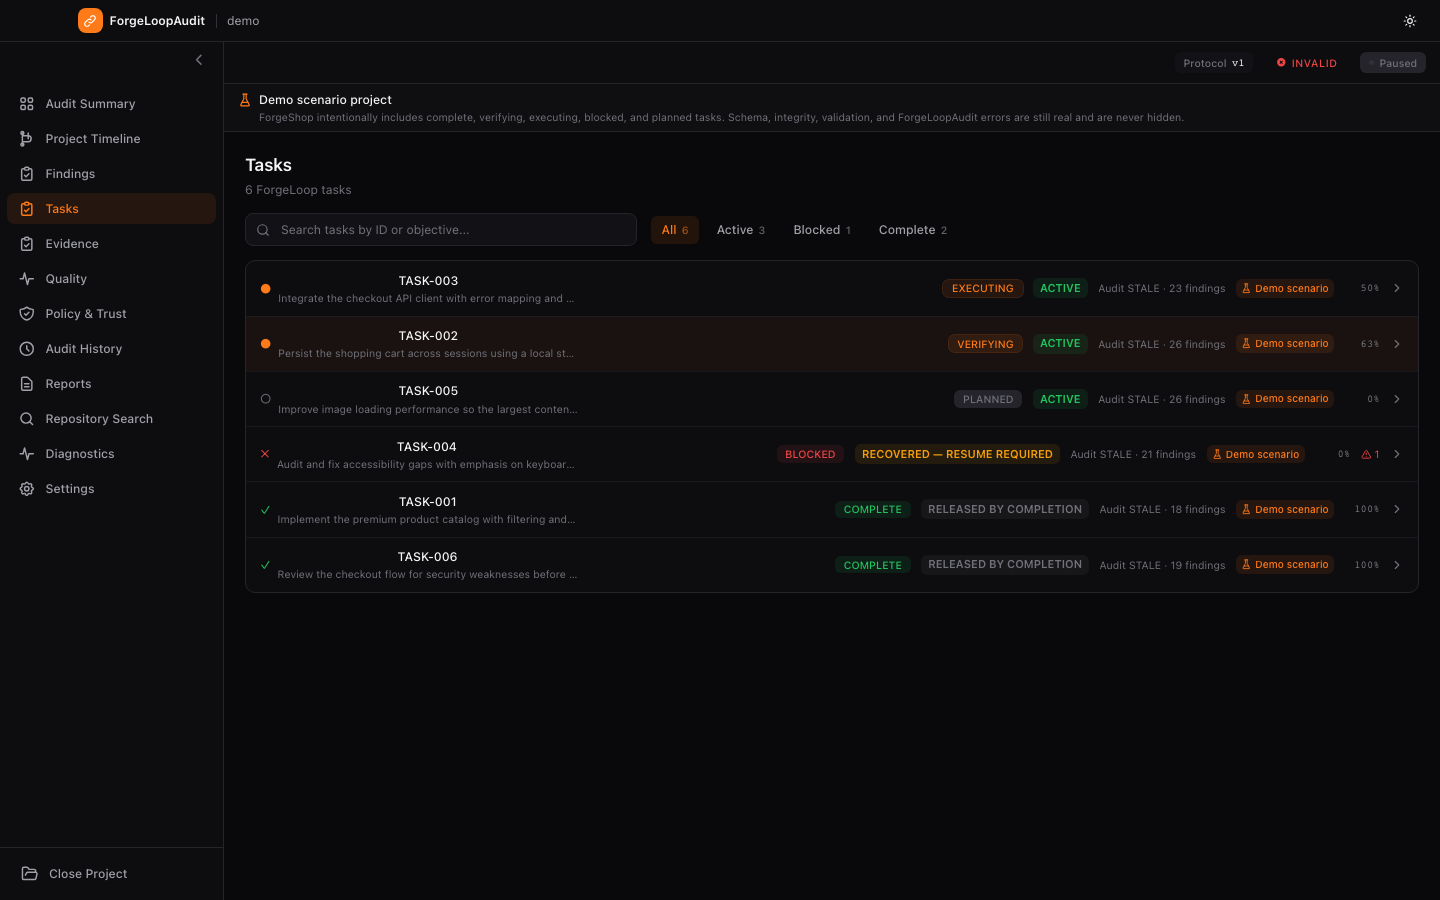
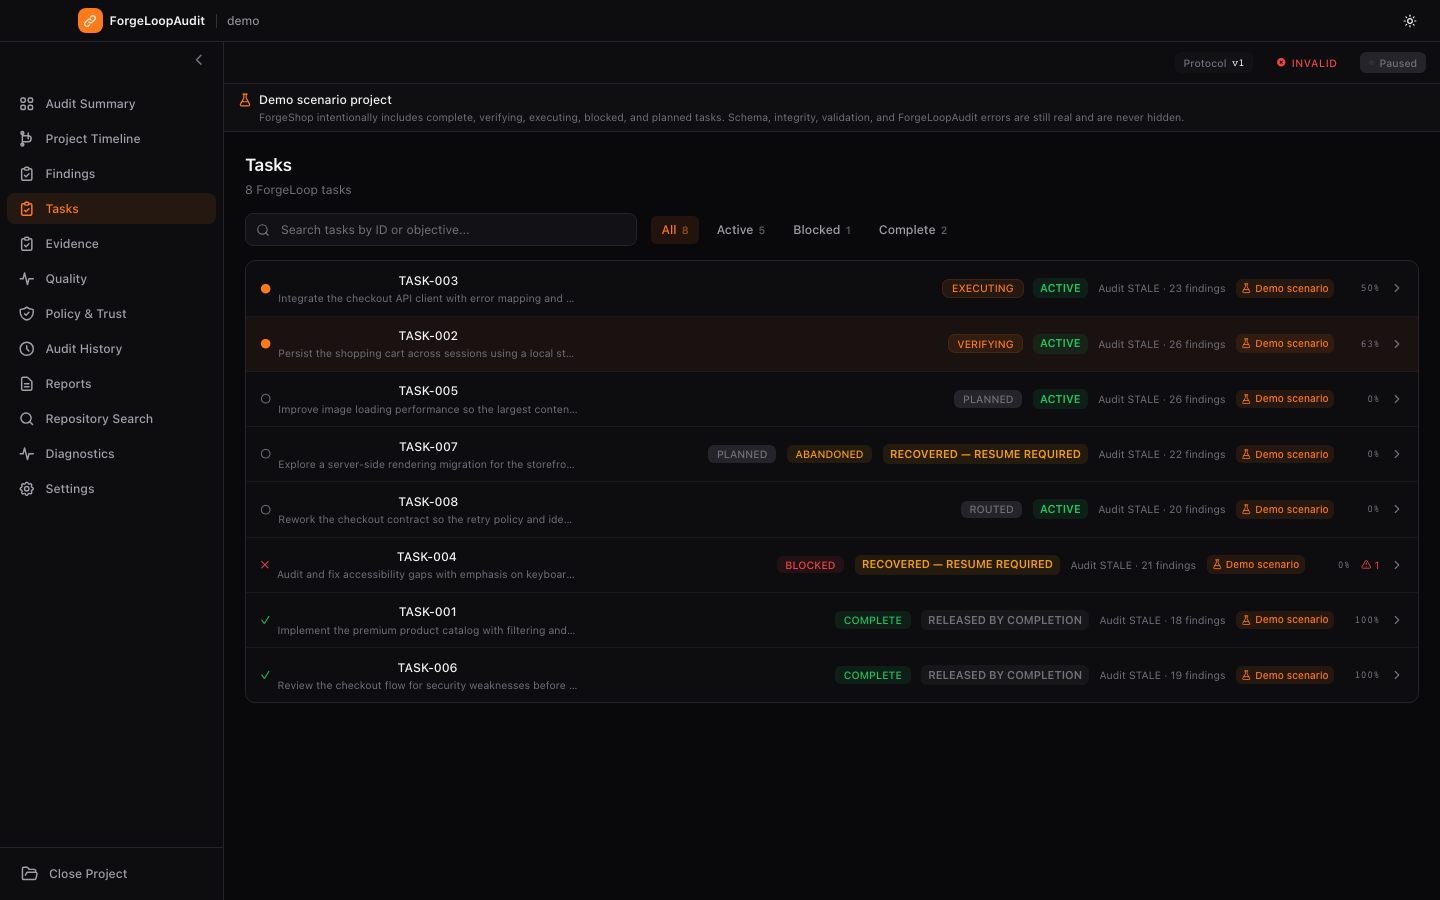
docs: regenerate the canonical README screenshots
Re-capture the 1440x900 dark-theme set from the production renderer through
the local server against the regenerated demo, including the new abandonment
and contract-revision scenarios and the updated protocol panel.

diff --git a/screen/README.md b/screen/README.md
@@ -11,7 +11,7 @@ The source project is [`../demo/`](../demo/) and the capture uses the built
 loopback web server with a 1440 × 900 browser viewport, 100% zoom, an expanded
 sidebar and reduced motion. The capture excludes operating-system chrome, local
 paths, credentials and transient loading state. The current capture is aligned
-to ForgeLoopAudit `0.3.0-rc.2` and ForgeLoop `1.13.0`.
+to ForgeLoopAudit `0.3.0-rc.3` and ForgeLoop `1.14.0`.
 
 Regenerate the complete set after a user-visible layout, demo-state,
 terminology, theme or navigation change:
@@ -40,7 +40,7 @@ orphaned screenshot files.
 | `history-diff.png` | Audit History | — | Manual snapshots stored outside the audited project |
 | `report.png` | Reports | — | Deterministic report formats and provenance |
 | `diagnostics.png` | Diagnostics | `TASK-004` | Canonical diagnostic signals |
-| `settings.png` | Settings | — | Project context, ForgeLoopAudit preferences, ForgeLoop 1.13.0 and advisory capability metadata |
+| `settings.png` | Settings | — | Project context, ForgeLoopAudit preferences, ForgeLoop 1.14.0 and advisory capability metadata |
 
 ## Review checklist
 
